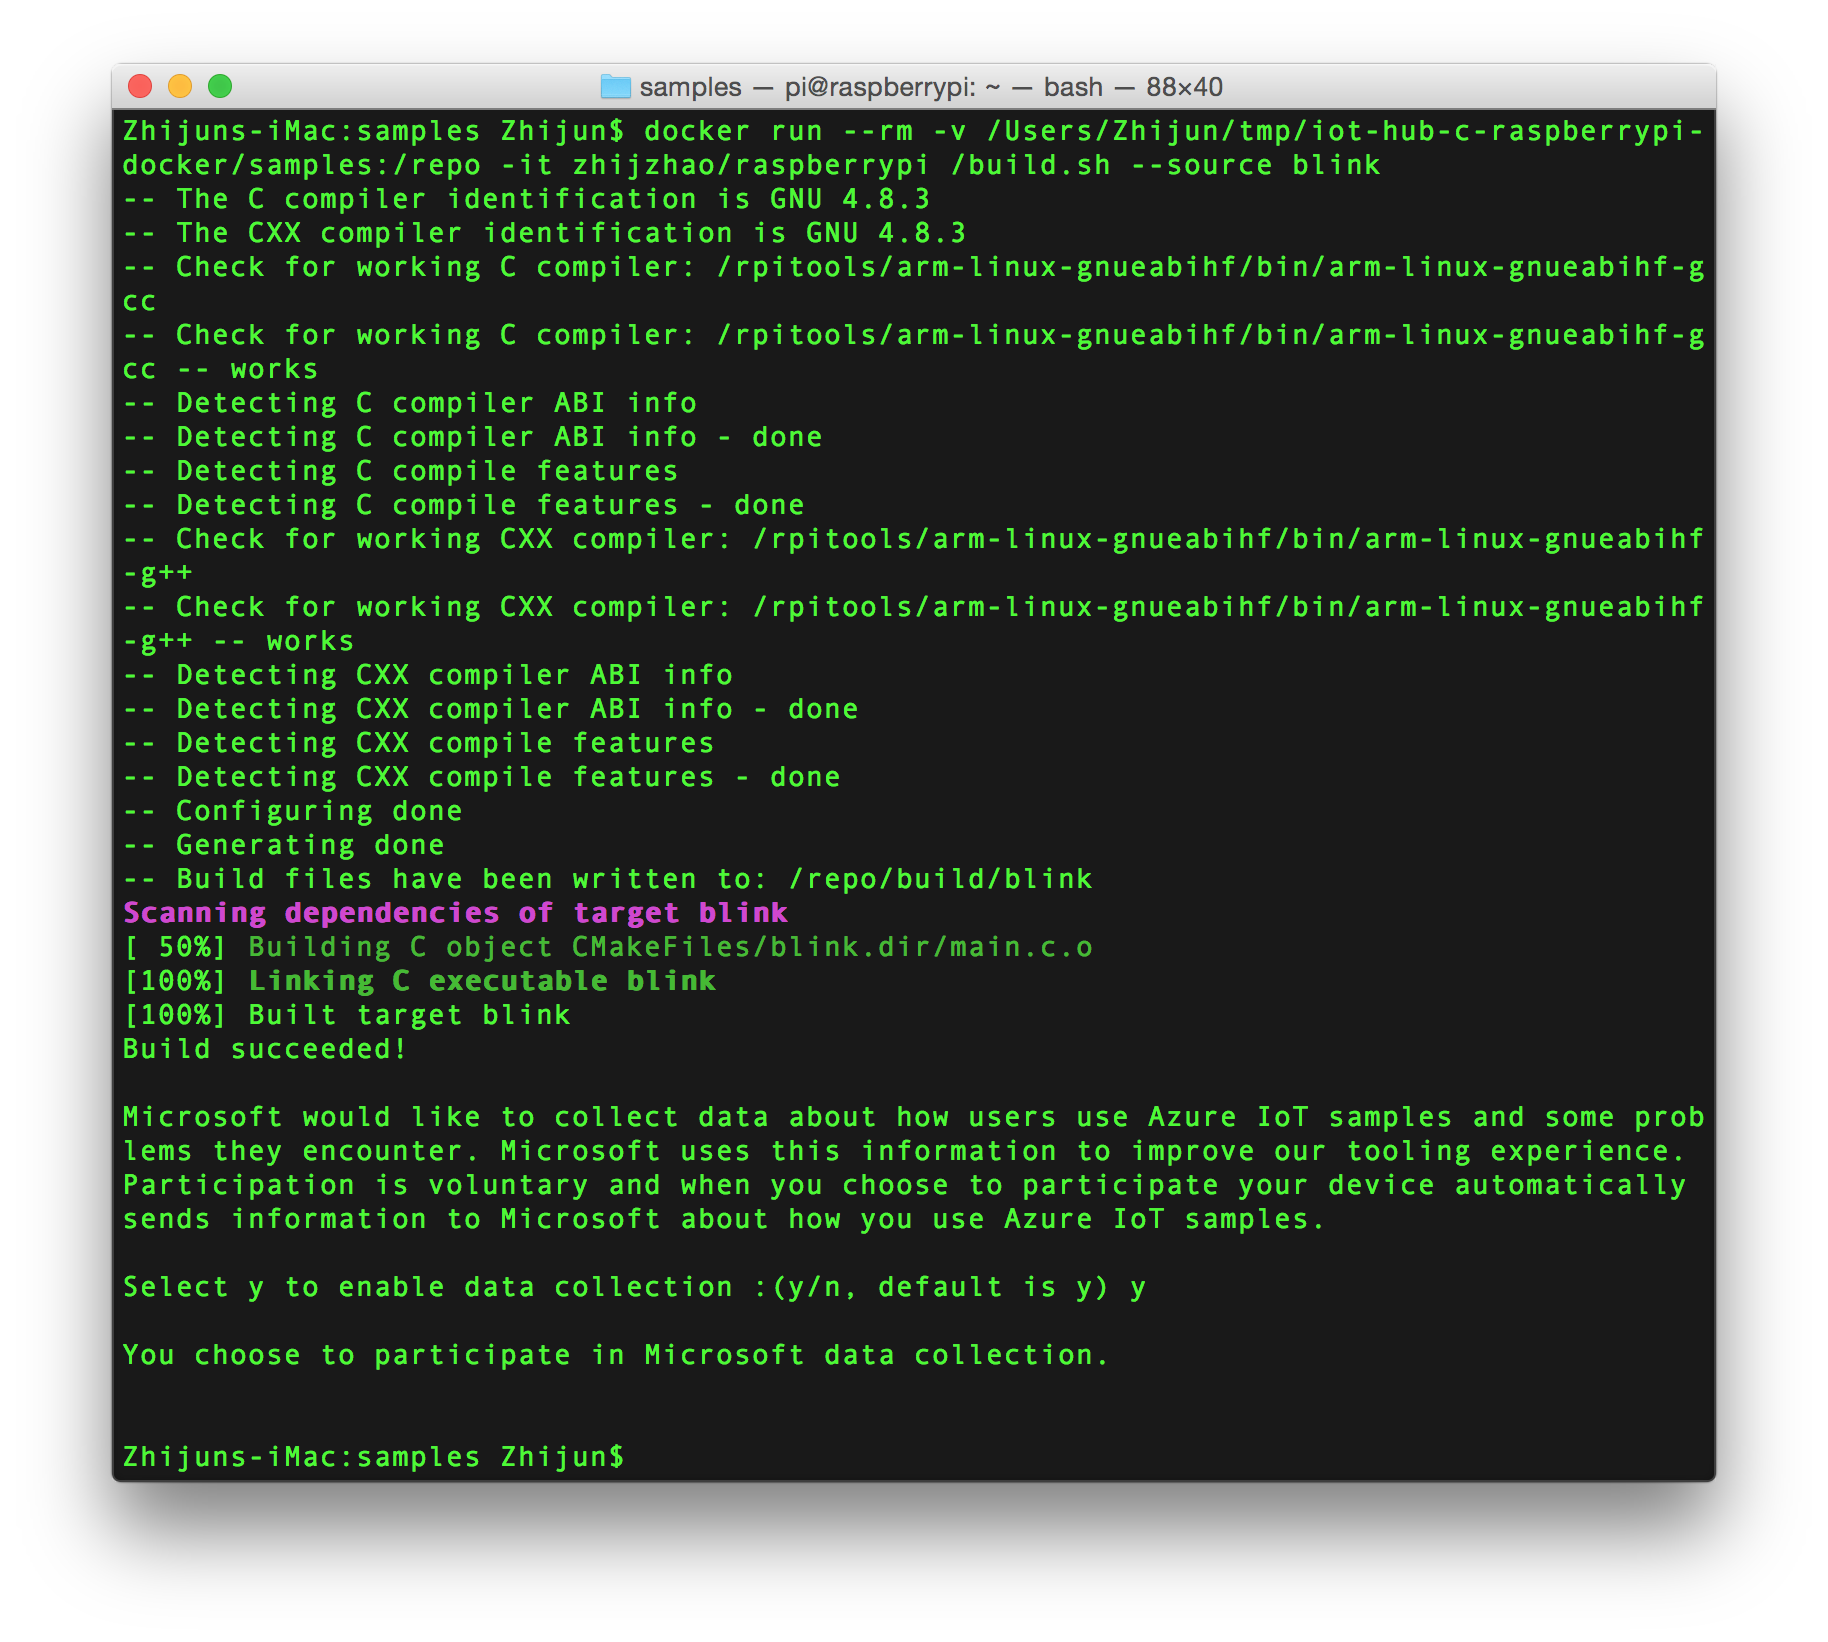
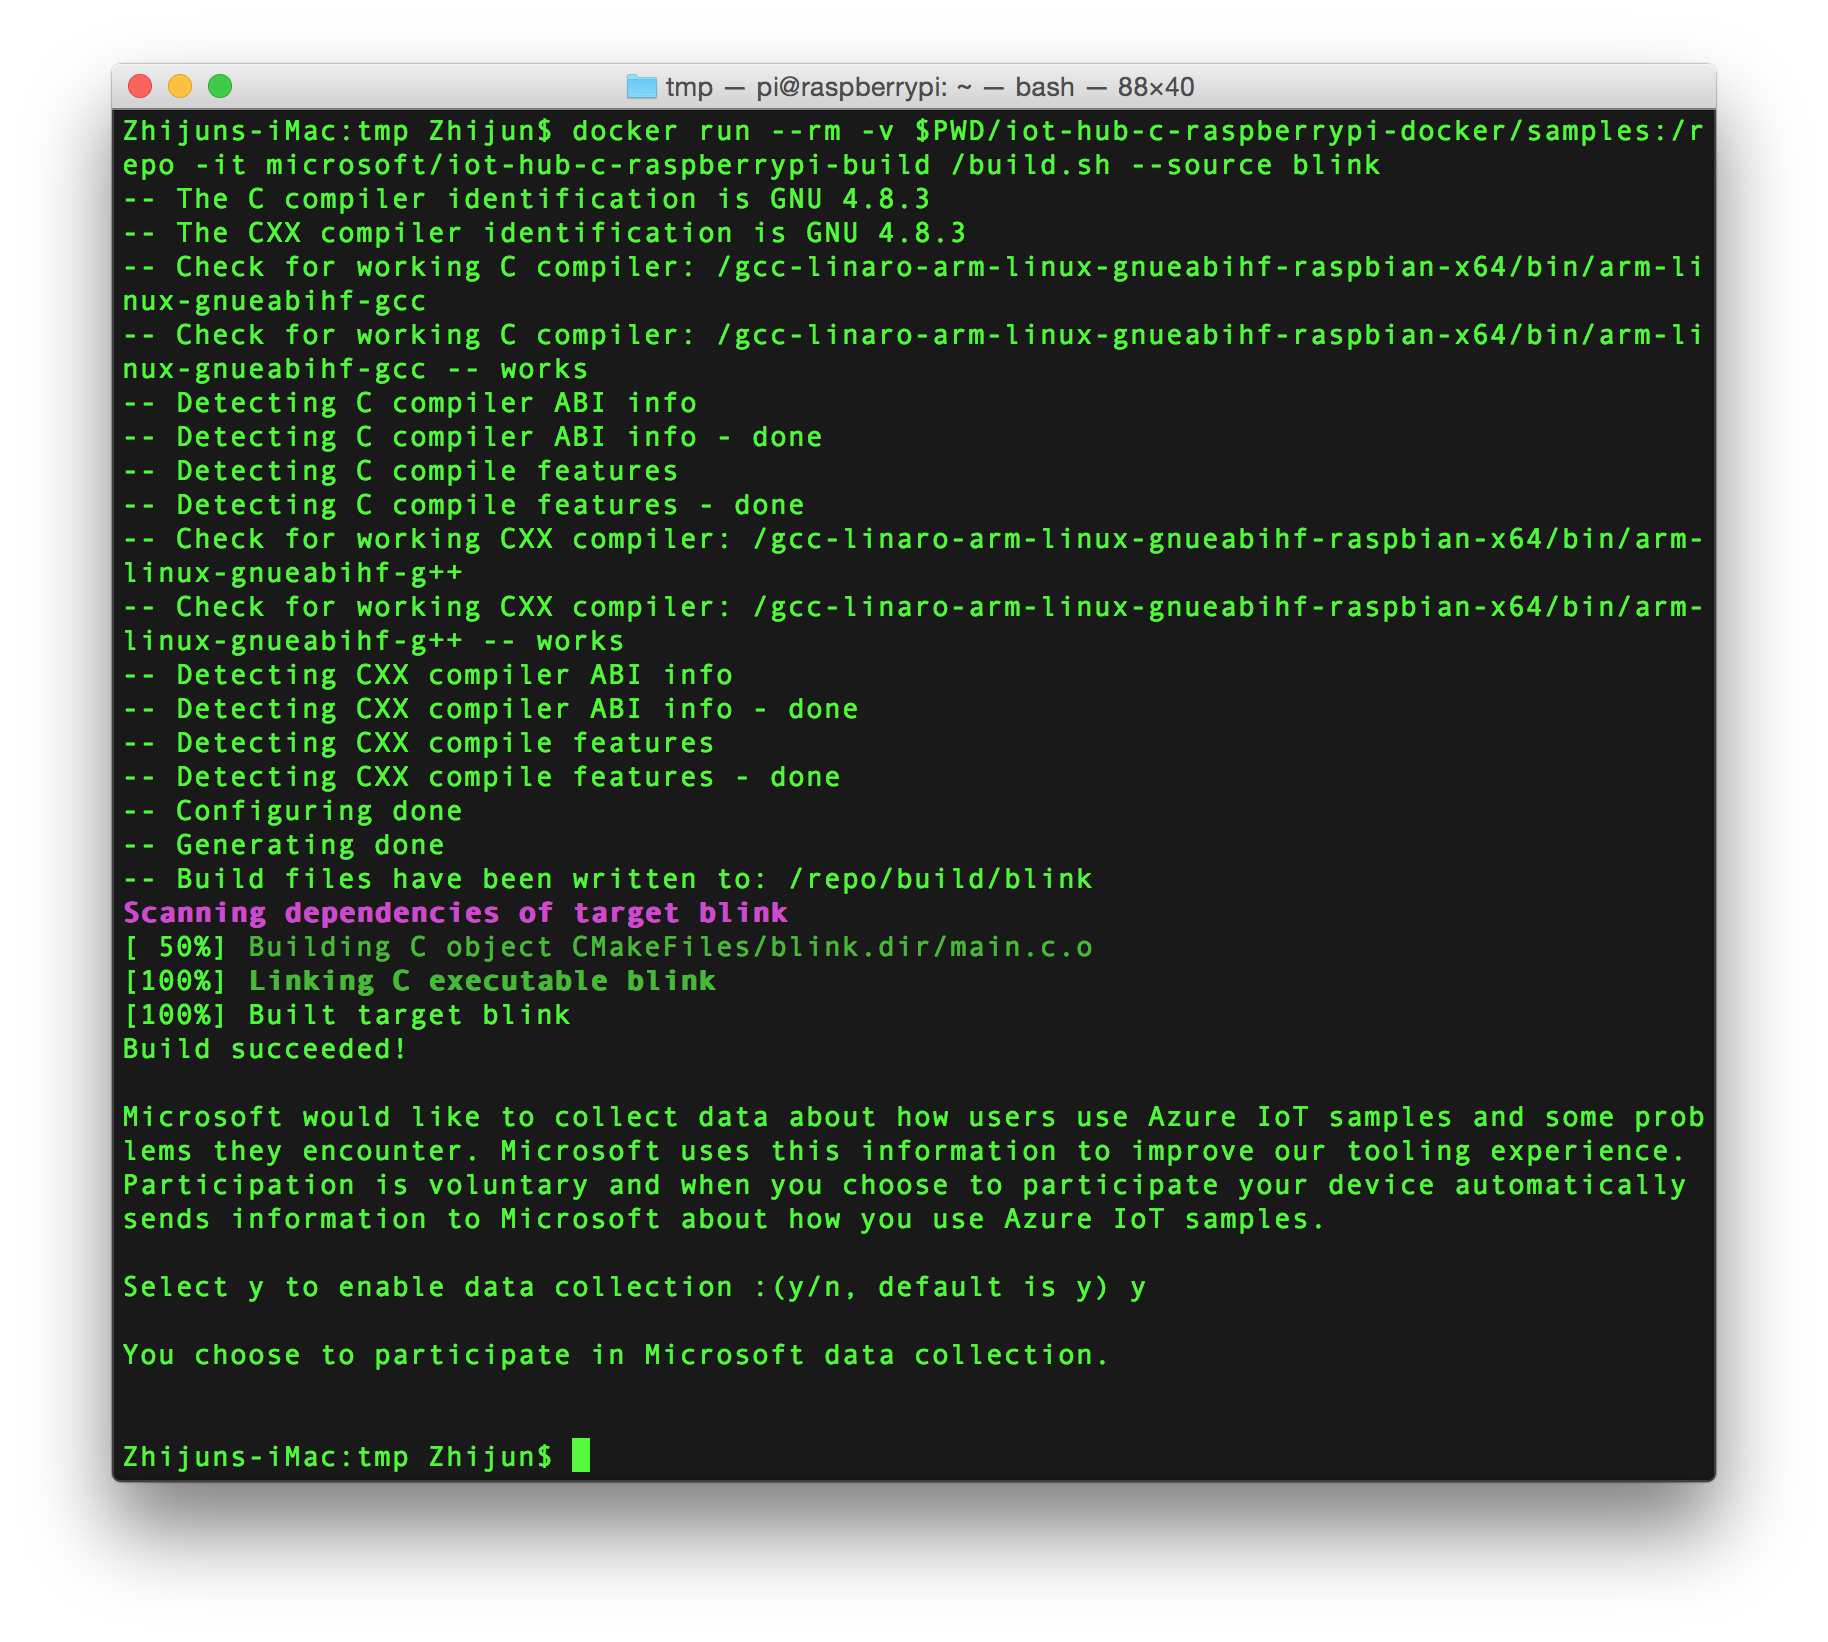
improve docker build command (#14)
* improve docker build command

* update ubuntu snapshot

diff --git a/doc/ubuntu-16.04.md b/doc/ubuntu-16.04.md
@@ -18,16 +18,11 @@ Go to [Docker website](https://docs.docker.com/engine/installation/linux/ubuntu/
 
    ```bash
    sudo docker pull microsoft/iot-hub-c-raspberrypi-build
-   ```
-
-   > Below `<>` part needs to be replaced with your own value.
-
-   ```bash
-   sudo docker run --rm -v </home/user-name/some-path/iot-hub-c-raspberrypi-docker/samples>:/repo -it microsoft/iot-hub-c-raspberrypi-build /build.sh --source blink
+   sudo docker run --rm -v $PWD/iot-hub-c-raspberrypi-docker/samples:/repo -it microsoft/iot-hub-c-raspberrypi-build /build.sh --source blink
    ```
 
    * `--rm` is a Docker running option. For details, please check [Docker reference](https://docs.docker.com/engine/reference/commandline/run/).
-   * `</home/user-name/some-path/iot-hub-c-raspberrypi-docker/samples>` is the full path of sample folder. Replace it with the path on your host machine.
+   * `$PWD/iot-hub-c-raspberrypi-docker/samples` is your sample folder path if the repo is cloned to your current working directory.
    * `-v` option maps your sample folder to `/repo` folder of the Ubuntu OS running inside Docker container.
    * `-it` option allows you to interact with the running Docker container.
    * `microsoft/iot-hub-c-raspberrypi-build` is Docker image name. Reference `dockerfile` folder if you're interested in how it works.

diff --git a/doc/mac-os-x-10.10.md b/doc/mac-os-x-10.10.md
@@ -45,16 +45,11 @@ Go to [Docker website](https://www.docker.com/). Scroll down and find the `Get D
 
    ```bash
    docker pull microsoft/iot-hub-c-raspberrypi-build
-   ```
-
-   > Below `<>` part needs to be replaced with your own value.
-
-   ```bash
-   docker run --rm -v </Users/user-name/some-path/iot-hub-c-raspberrypi-docker/samples>:/repo -it microsoft/iot-hub-c-raspberrypi-build /build.sh --source blink
+   docker run --rm -v $PWD/iot-hub-c-raspberrypi-docker/samples:/repo -it microsoft/iot-hub-c-raspberrypi-build /build.sh --source blink
    ```
 
    * `--rm` is a Docker running option. For details, please check [Docker reference](https://docs.docker.com/engine/reference/commandline/run/).
-   * `</Users/user-name/some-path/iot-hub-c-raspberrypi-docker/samples>` is the full path of sample folder. Replace it with the path on your host machine.
+   * `$PWD/iot-hub-c-raspberrypi-docker/samples` is your sample folder path if the repo is cloned to your current working directory.
    * `-v` option maps your sample folder to `/repo` folder of the Ubuntu OS running inside Docker container.
    * `-it` option allows you to interact with the running Docker container.
    * `microsoft/iot-hub-c-raspberrypi-build` is Docker image name. Reference `dockerfile` folder if you're interested in how it works.
